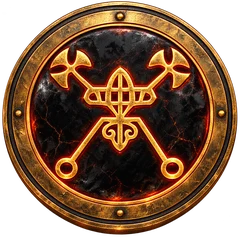
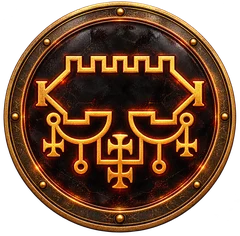
Печати Королей: исправлено соответствие
Claude-Session: https://claude.ai/code/session_01LxJh9mEmZSXRc61koe8BVg

diff --git a/index.html b/index.html
@@ -19,7 +19,7 @@
 <link rel="preconnect" href="https://fonts.googleapis.com">
 <link rel="preconnect" href="https://fonts.gstatic.com" crossorigin>
 <link rel="stylesheet" href="https://fonts.googleapis.com/css2?family=Montserrat:ital,wght@0,400;0,500;0,600;0,700;0,800;1,400&display=swap">
-<link rel="stylesheet" href="style.css?v=50">
+<link rel="stylesheet" href="style.css?v=51">
 </head>
 <body>
 
@@ -81,12 +81,12 @@
   </div>
 </div>
 
-<script src="data.js?v=50"></script>
-<script src="rules-data.js?v=50"></script>
-<script src="tools.js?v=50"></script>
-<script src="infernal.js?v=50"></script>
-<script src="config.js?v=50"></script>
-<script src="cabinet.js?v=50"></script>
-<script src="app.js?v=50"></script>
+<script src="data.js?v=51"></script>
+<script src="rules-data.js?v=51"></script>
+<script src="tools.js?v=51"></script>
+<script src="infernal.js?v=51"></script>
+<script src="config.js?v=51"></script>
+<script src="cabinet.js?v=51"></script>
+<script src="app.js?v=51"></script>
 </body>
 </html>

diff --git a/infernal.js b/infernal.js
@@ -57,7 +57,7 @@ const chaosName = c => c === 'ice' ? 'Ледяной хаос' : 'Огненны
 
 function kingCard(k) {
   return `<article class="panel king k-${k.chaos}" id="king-${k.id}">
-    <div class="king-top"><span class="king-sin">${esc(k.sin)}</span><img class="king-seal" src="assets/seals/${k.id}.webp" alt="Печать: ${esc(k.name)}" loading="lazy"></div>
+    <div class="king-top"><span class="king-sin">${esc(k.sin)}</span><img class="king-seal" src="assets/seals/${k.id}.webp?v=2" alt="Печать: ${esc(k.name)}" loading="lazy"></div>
     <h3>${esc(k.name)}</h3><div class="king-title">${esc(k.title)}</div>
     <p>${esc(k.text)}</p>
     <div class="king-row"><b>Питается</b><span>${esc(k.feed)}</span></div>
